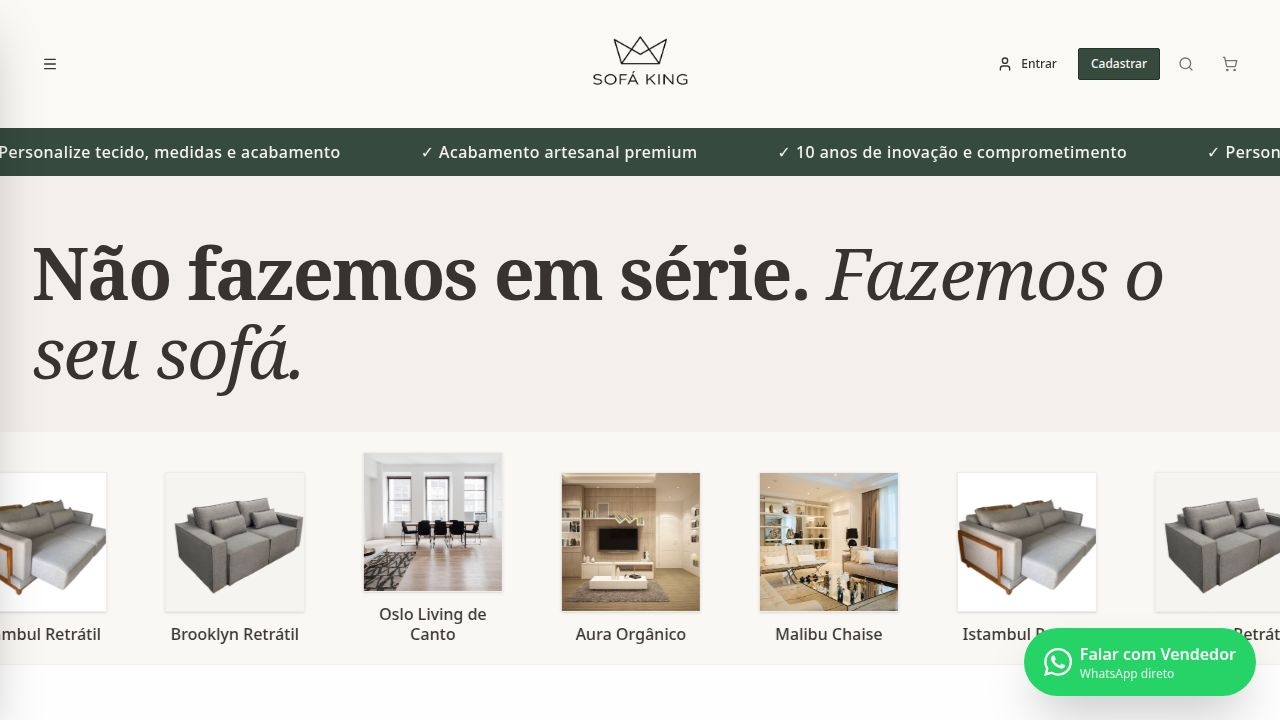
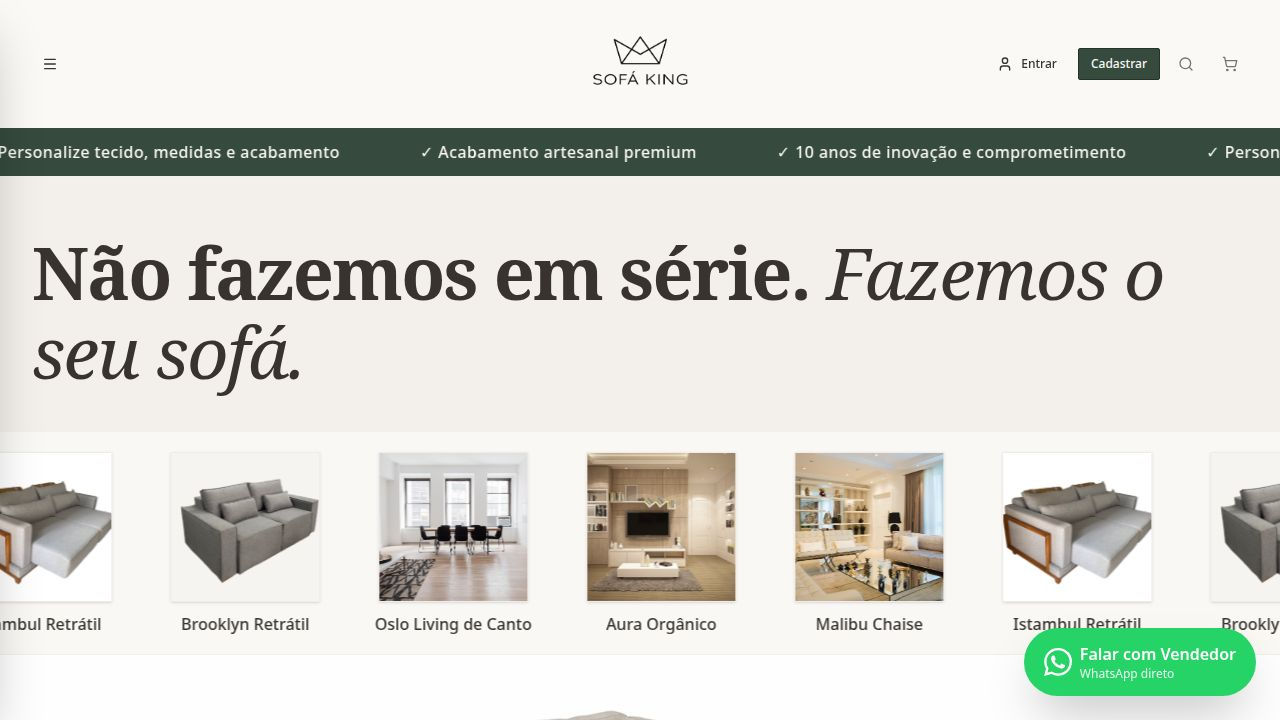
Improve visibility of products in the bestsellers carousel
Update the width of product images and their text labels within the BestsellerStrip component for better mobile and desktop viewing.

Replit-Commit-Author: Agent
Replit-Commit-Session-Id: 57c58d90-8423-49be-879c-a5f96a6c75fd
Replit-Commit-Checkpoint-Type: full_checkpoint
Replit-Commit-Event-Id: b2cafeee-0b49-403d-8c6e-31c5344fb244
Replit-Commit-Screenshot-Url: https://storage.googleapis.com/screenshot-production-us-central1/3e7d1c05-2491-4683-a55a-a9679022ba21/57c58d90-8423-49be-879c-a5f96a6c75fd/2ZsNfOK
Replit-Helium-Checkpoint-Created: true

diff --git a/artifacts/sofa-king/src/components/layout/BestsellerStrip.tsx b/artifacts/sofa-king/src/components/layout/BestsellerStrip.tsx
@@ -23,10 +23,10 @@ export function BestsellerStrip() {
           <Link
             key={`${p.id}-${i}`}
             href={`/produto/${p.id}`}
-            className="shrink-0 flex flex-col items-center text-center group w-[90px] sm:w-[150px]"
+            className="shrink-0 flex flex-col items-center text-center group w-[120px] sm:w-[160px]"
             data-testid={`bestseller-item-${p.id}`}
           >
-            <div className="w-[80px] h-[80px] sm:w-[140px] sm:h-[140px] overflow-hidden bg-muted/40 border border-border/50 group-hover:border-primary/40 transition-colors shadow-sm">
+            <div className="w-[110px] h-[110px] sm:w-[150px] sm:h-[150px] overflow-hidden bg-muted/40 border border-border/50 group-hover:border-primary/40 transition-colors shadow-sm">
               {p.image ? (
                 <img
                   src={p.image}
@@ -40,7 +40,7 @@ export function BestsellerStrip() {
                 </div>
               )}
             </div>
-            <div className="mt-2 sm:mt-3 text-[11px] sm:text-base font-medium text-foreground group-hover:text-primary leading-tight whitespace-normal line-clamp-2">
+            <div className="mt-2 sm:mt-3 text-[12px] sm:text-base font-medium text-foreground group-hover:text-primary leading-tight whitespace-normal line-clamp-2">
               {displayName(p.name, p.category)}
             </div>
           </Link>
